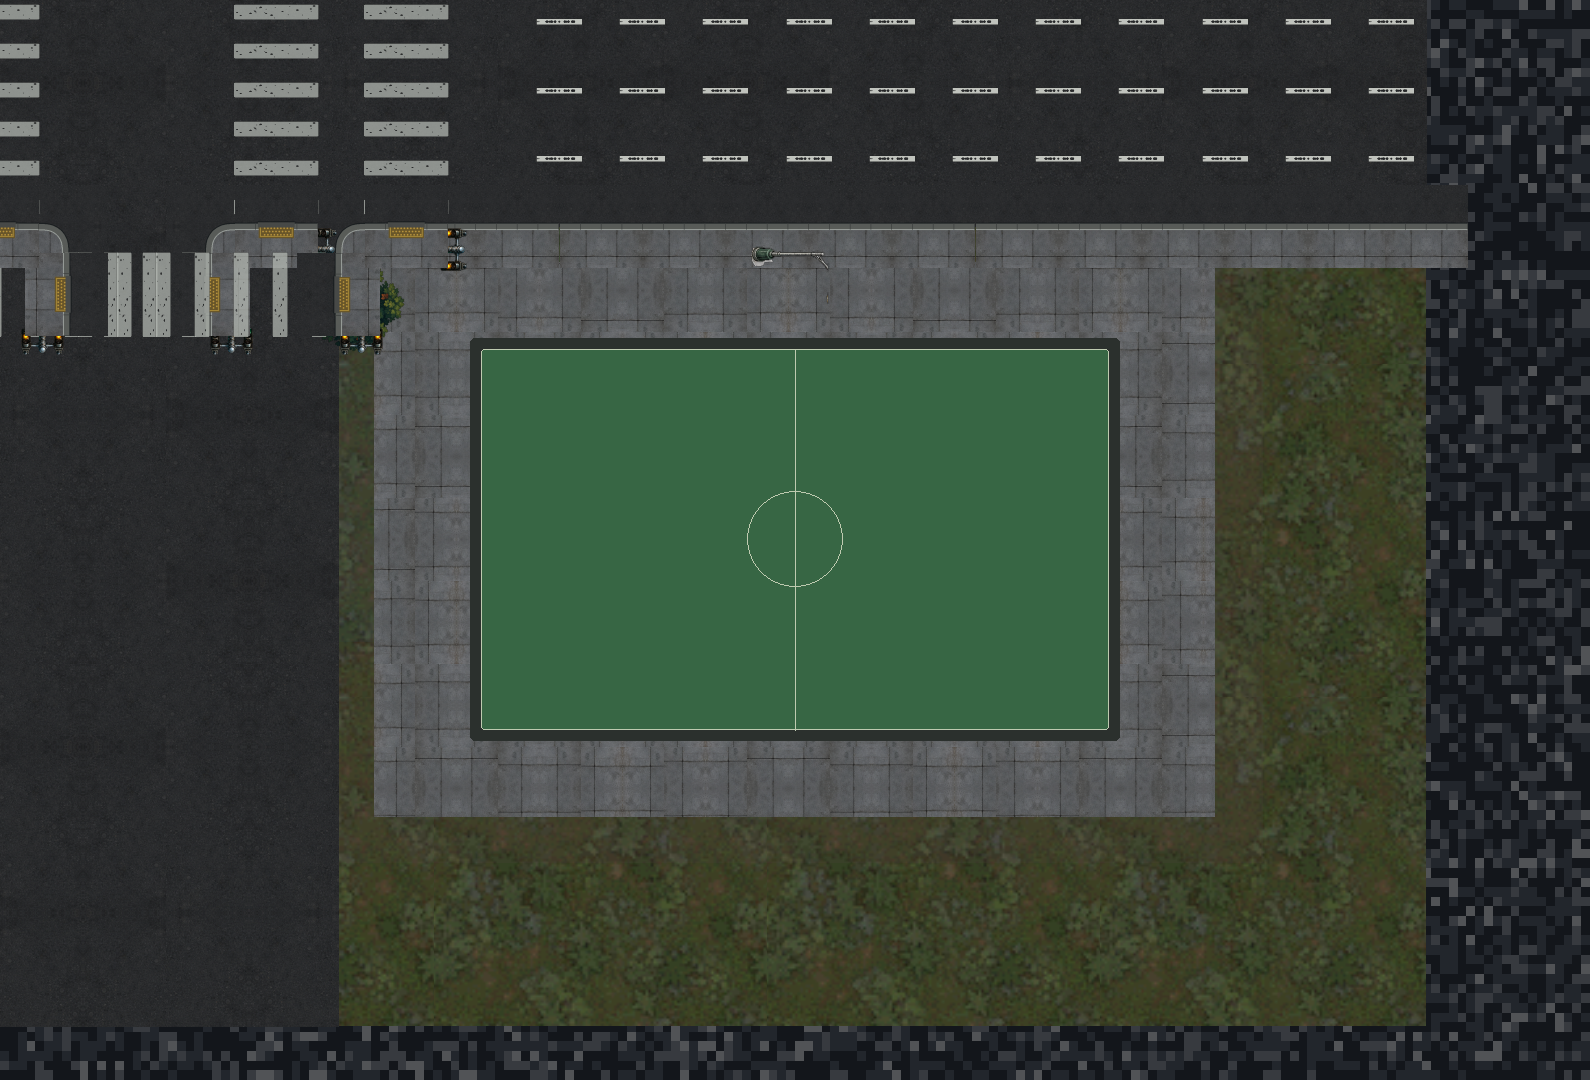
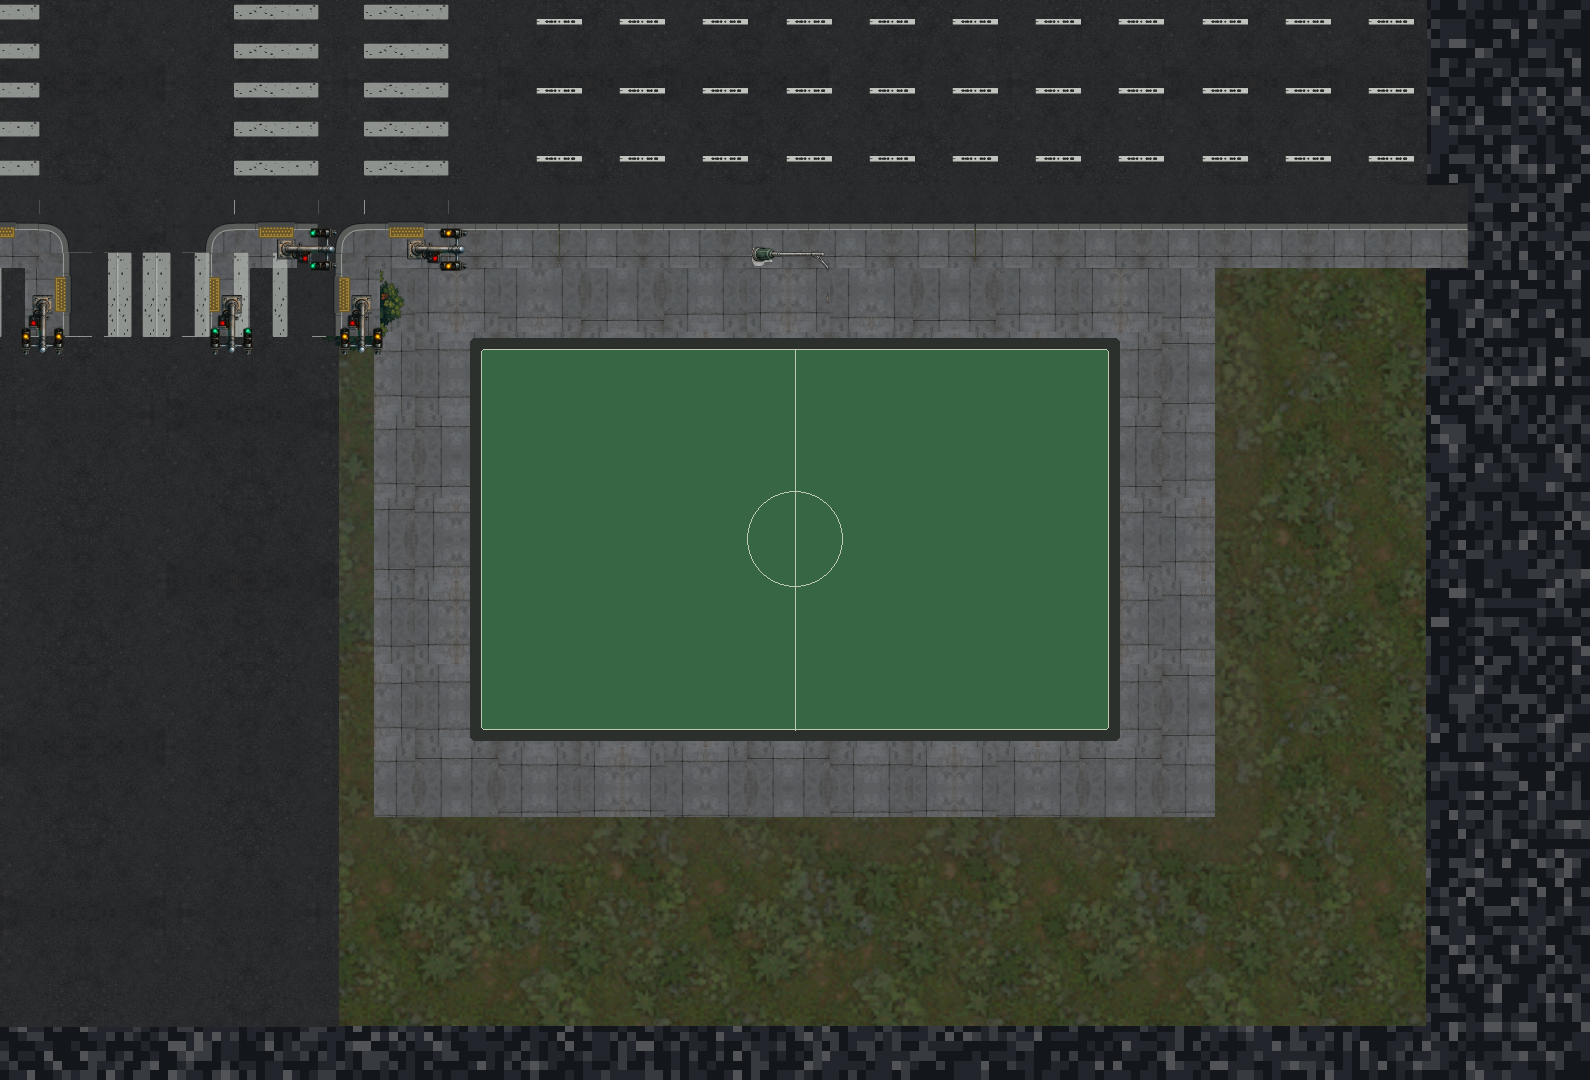
map preview: unclip signals and hide debug markers

diff --git a/map_workbench.py b/map_workbench.py
@@ -154,7 +154,9 @@ class MapWorkbench:
         self.show_labels = True
         self.show_static_frontier = True
         self.show_transport = True
-        self.show_population = True
+        # Population currently has editor-only markers rather than approved
+        # character art. Keep that diagnostic layer off in the normal map view.
+        self.show_population = False
         self.show_street_detail = True
         self.show_access = True
         self.auto_reload = True
@@ -948,7 +950,7 @@ class MapWorkbench:
         image = self._catalog_art("entrance_buzzer", size)
         target.blit(image, image.get_rect(midbottom=point))
 
-    def _draw_street_features(self, target: pygame.Surface) -> None:
+    def _draw_street_features(self, target: pygame.Surface, *, signals_only: bool = False) -> None:
         if not self.show_street_detail:
             return
         regular_road_width = float(self.layout_contract.get("regular_road_width", 420))
@@ -962,6 +964,8 @@ class MapWorkbench:
         road_by_id = {str(road.get("street_id", "")): road for road in self.layout.get("streets", [])}
         for row in self.layout.get("street_features", []):
             kind = row.get("kind", "")
+            if signals_only != (kind == "traffic_signal"):
+                continue
             p = self.world_to_screen((number(row, "x"), number(row, "y")))
             rotation = int(number(row, "rotation"))
             if kind == "crosswalk":
@@ -1348,6 +1352,11 @@ class MapWorkbench:
         if self.layer == "ground":
             self._draw_transport(target)
         self._draw_population(target)
+        if self.layer == "ground":
+            # Signals use tall pivoted artwork. Draw them as a final fixture
+            # pass so later buildings, trees, vehicles, or debug markers cannot
+            # cut pieces out of the mast after it has been placed.
+            self._draw_street_features(target, signals_only=True)
 
         if self.show_labels:
             for zone in self.layout.get("zones", []):
@@ -1420,7 +1429,7 @@ class MapWorkbench:
         y = 88
         sections = [
             ("VIEW", ["1  New v4 map", "2  Legacy runtime", "G  Ground", "R  Roof", "U  Underground", "F  Fit whole map"]),
-            ("LAYERS", ["T  Traffic + parking", "Y  People + rooftop jobs", "Ctrl+D  Street detail", "B  Doors + roof access"]),
+            ("LAYERS", ["T  Traffic + parking", "Y  Debug population markers", "Ctrl+D  Street detail", "B  Doors + roof access"]),
             ("INSPECT", ["Mouse wheel  Zoom", "Drag / WASD  Pan", "I  Cell/grid overlay", "C  Collision overlay", "O  Object bounds", "L  Labels", "N  Static frontier"]),
             ("WORKFLOW", ["F5  Reload files", "H  Toggle hot reload", "Ctrl+R  Regenerate layers", "P  Save screenshot", "Q / Esc  Close"]),
         ]
